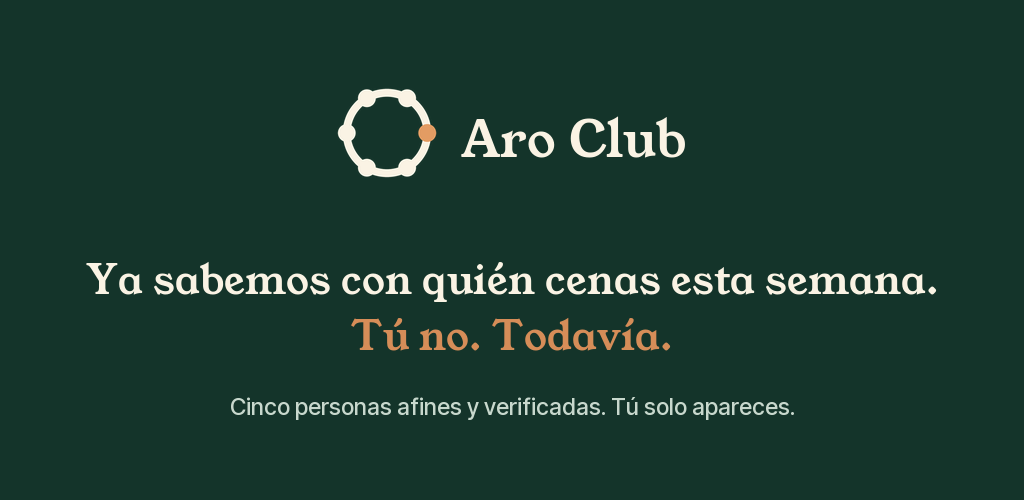
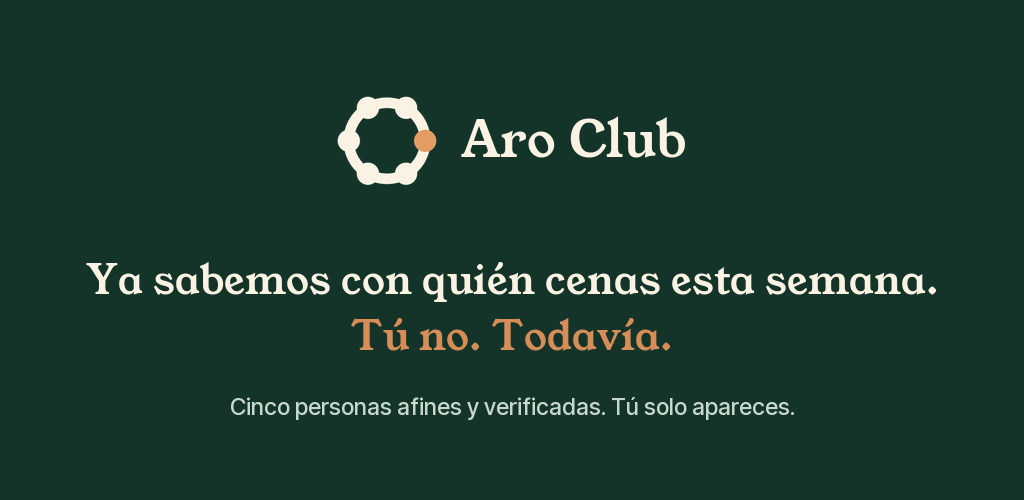
Isologo de la entrega 17 en la app: trazo 2.4 y puntos 2.5 (24 y 25 sobre 240)
Aro.tsx es el único dibujo a mano de la marca (cabecera, carga, Entrar).
El gráfico destacado de Play, rehecho con el splash nuevo.

Changed region(s): [[0.3125, 0.18, 0.4375, 0.39]]

diff --git a/app-mobile/src/diseno/Aro.tsx b/app-mobile/src/diseno/Aro.tsx
@@ -8,8 +8,11 @@ import { color, cremaAlfa, tinta, tiempo } from './tokens'
  * La marca: un aro con seis puntos. Cinco del color de la tinta y UNO en
  * terracota, que es la persona.
  *
- * La geometría es la de la web (viewBox 24, radio 8.6, puntos de 1.9) y es
- * una sola: la usan la marca quieta de la cabecera y el aro de carga.
+ * La geometría es la de `marca/` (entrega 17 de Design, cuadrícula de 240):
+ * anillo de radio 86 con trazo 24 y puntos de radio 25. Aquí, en viewBox 24:
+ * 8.6, 2.4 y 2.5. Es una sola: la usan la marca quieta de la cabecera y el
+ * aro de carga. A tamaños muy chicos (16 px) los puntos se funden con el
+ * anillo; por debajo de ~20 px, mejor no usarla.
  */
 
 /** Los seis puntos, empezando por el de la persona (a las tres) y en sentido horario. */
@@ -22,6 +25,9 @@ const PUNTOS: ReadonlyArray<readonly [number, number]> = [
   [16.3, 4.55],
 ]
 
+/** El trazo del anillo de la entrega 17 (24 sobre 240). */
+const TRAZO = 2.4
+
 type Props = { tam?: number; anillo: string; grosor: number; puntos: readonly string[] }
 
 function Dibujo({ tam = 22, anillo, grosor, puntos }: Props) {
@@ -29,7 +35,7 @@ function Dibujo({ tam = 22, anillo, grosor, puntos }: Props) {
     <Svg width={tam} height={tam} viewBox="0 0 24 24" fill="none">
       <Circle cx={12} cy={12} r={8.6} stroke={anillo} strokeWidth={grosor} />
       {PUNTOS.map(([cx, cy], i) => (
-        <Circle key={i} cx={cx} cy={cy} r={1.9} fill={puntos[i]} />
+        <Circle key={i} cx={cx} cy={cy} r={2.5} fill={puntos[i]} />
       ))}
     </Svg>
   )
@@ -44,7 +50,7 @@ export function Marca({ tam = 22, sobreVerde, crema }: { tam?: number; sobreVerd
   // `crema`: sobre verde, en crema entero, como la cabecera de Entrar en la web.
   const trazo = crema ? color.crema : sobreVerde ? color.sobreVerdeSecundario : color.verdeProfundo
   const tuyo = sobreVerde || crema ? color.terracotaSobreVerde : color.terracota
-  return <Dibujo tam={tam} anillo={trazo} grosor={sobreVerde ? 1.7 : 1.8} puntos={[tuyo, ...Array(5).fill(trazo)]} />
+  return <Dibujo tam={tam} anillo={trazo} grosor={TRAZO} puntos={[tuyo, ...Array(5).fill(trazo)]} />
 }
 
 /**
